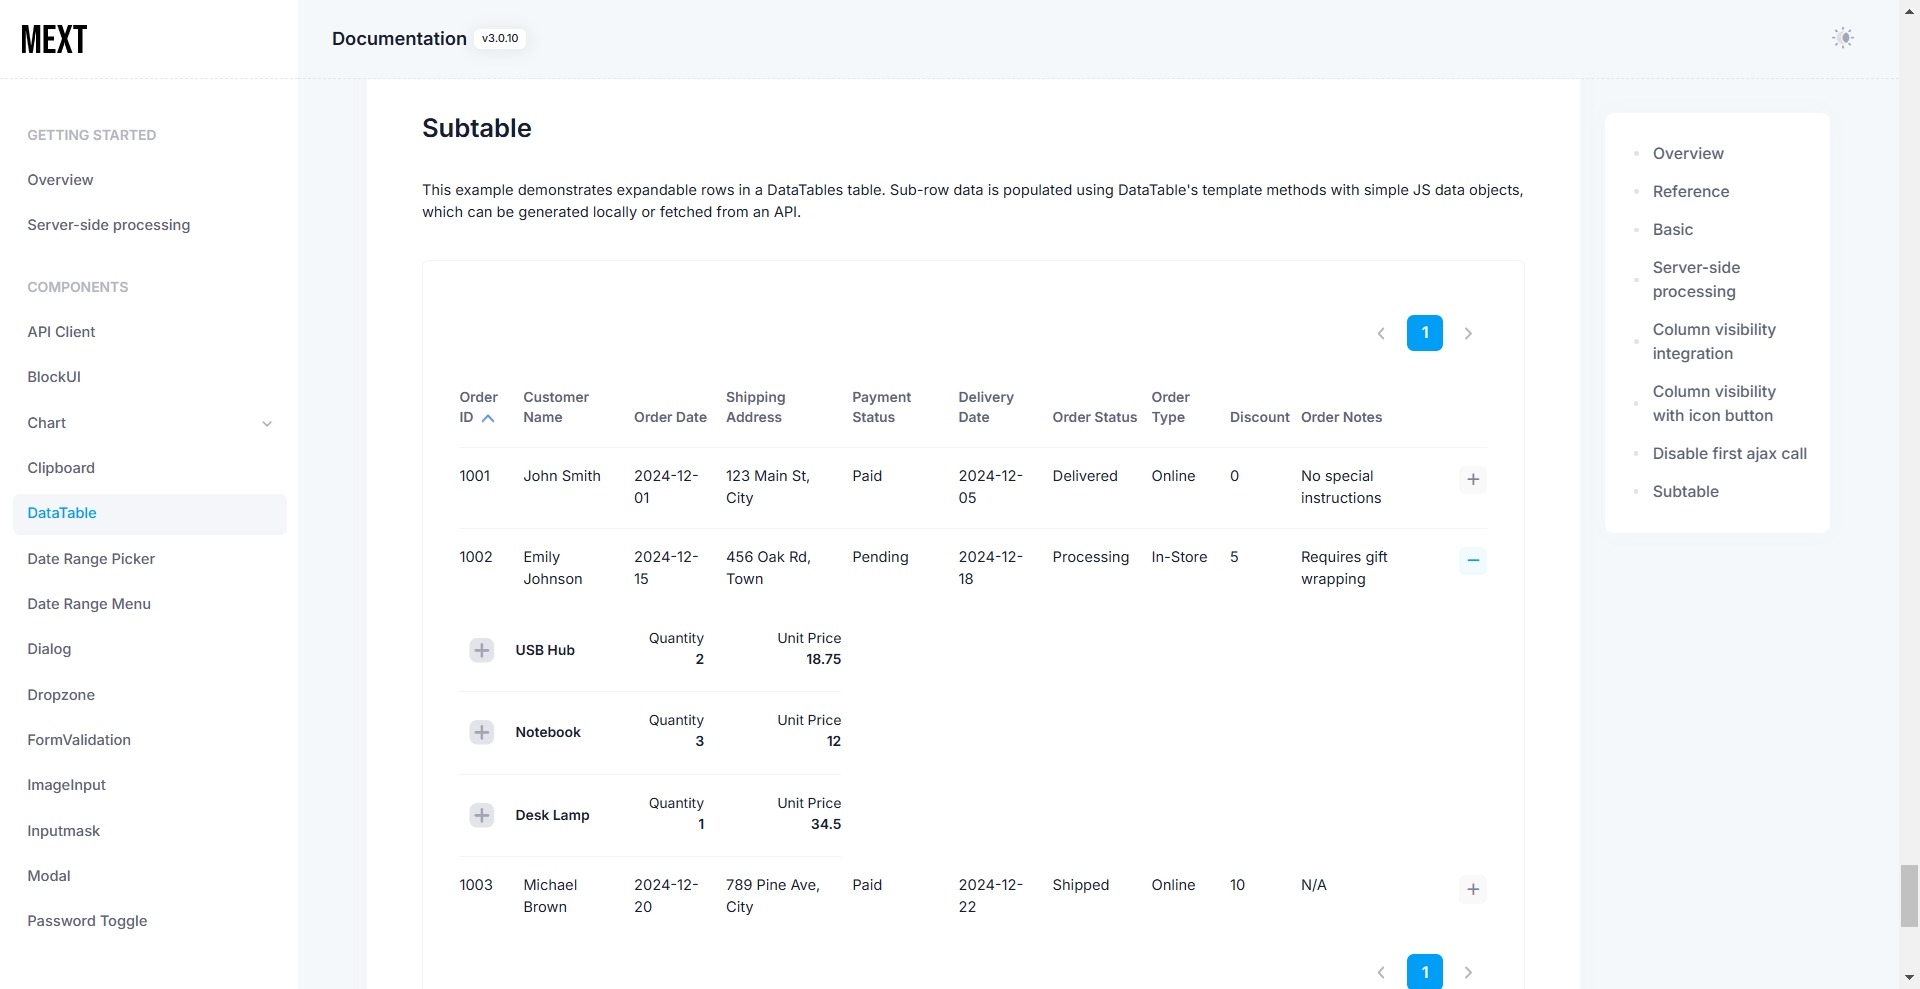
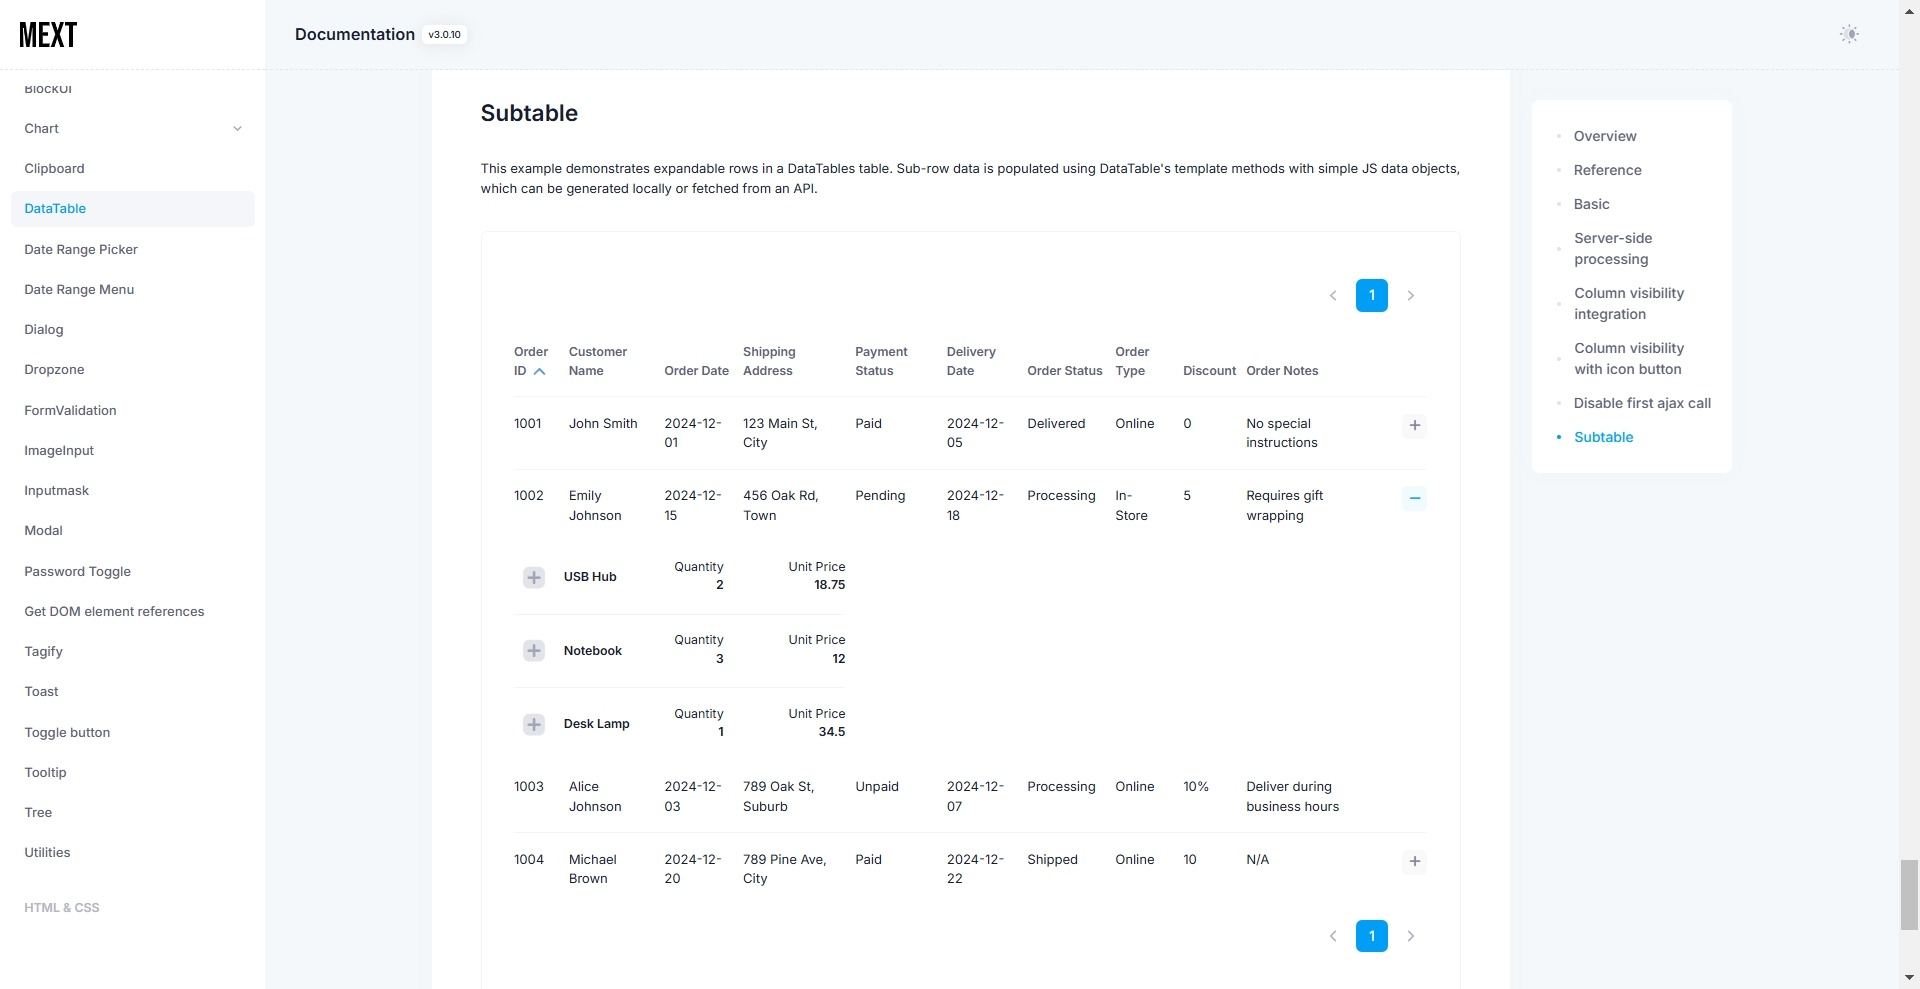
Added an example to the subtable demo where the expand button is not displayed for rows without subtable data.

diff --git a/docs/build/subtable.js b/docs/build/subtable.js
@@ -16,7 +16,7 @@
 /***/ ((__unused_webpack_module, __webpack_exports__, __webpack_require__) => {
 
 "use strict";
-eval("__webpack_require__.r(__webpack_exports__);\n/* harmony import */ var metronic_extension__WEBPACK_IMPORTED_MODULE_0__ = __webpack_require__(/*! metronic-extension */ \"../../dist/build.js\");\n/* harmony import */ var metronic_extension__WEBPACK_IMPORTED_MODULE_0___default = /*#__PURE__*/__webpack_require__.n(metronic_extension__WEBPACK_IMPORTED_MODULE_0__);\n\r\n\r\n// Get DOM element references.\r\nconst ref = metronic_extension__WEBPACK_IMPORTED_MODULE_0__.components.selectRef();\r\n\r\n// Initialize the DataTable.\r\nconst initSubtable = () => {\r\n  let targetIndex = 0;\r\n  return new metronic_extension__WEBPACK_IMPORTED_MODULE_0__.components.Datatable(ref.subtable, {\r\n    responsive: true,\r\n    columnDefs: [\r\n      {targets: targetIndex++, responsivePriority: 1, data: 'orderId', name: 'orderId'},\r\n      {targets: targetIndex++, responsivePriority: 2, data: 'customerName', name: 'customerName'},\r\n      {targets: targetIndex++, data: 'orderDate', name: 'orderDate'},\r\n      {targets: targetIndex++, data: 'shippingAddress', name: 'shippingAddress'},\r\n      {targets: targetIndex++, data: 'paymentStatus', name: 'paymentStatus'},\r\n      {targets: targetIndex++, data: 'deliveryDate', name: 'deliveryDate'},\r\n      {targets: targetIndex++, data: 'orderStatus', name: 'orderStatus'},\r\n      {targets: targetIndex++, data: 'orderType', name: 'orderType'},\r\n      {targets: targetIndex++, data: 'discount', name: 'discount'},\r\n      {targets: targetIndex++, data: 'orderNotes', name: 'orderNotes'},\r\n      {targets: targetIndex++, responsivePriority: 3, data: 'expandRow', name: 'expandRow'},\r\n    ],\r\n    pageLength: 3,\r\n    drawCallback: settings => {\r\n      resetSubtable();\r\n    },\r\n  });\r\n}\r\n\r\n// Handles the row expand button click event.\r\nconst handleRowExpand = () => {\r\n  $(subtableContainer).on('click', '[data-on-expand-row]', event => {\r\n    event.stopImmediatePropagation();\r\n    event.preventDefault();\r\n\r\n    const expandButton = event.currentTarget;\r\n    const row = expandButton.closest('tr');\r\n    const rowClasses = ['isOpen', 'border-bottom-0'];\r\n    \r\n    // Toggle subtable visibility.\r\n    if (row.classList.contains('isOpen')) {\r\n      // Close subtable.\r\n      removeSubtableRows(row);\r\n      row.classList.remove(...rowClasses);\r\n      expandButton.classList.remove('active');\r\n    } else {\r\n      // Open subtable.\r\n      const orderId = subtable.getRowData(row).orderId;\r\n      const subtableRows = subtableData.filter(data => data.orderId == orderId);\r\n      const subtableRowCount = subtableRows.length;\r\n\r\n      for (let [index, data] of Object.entries(subtableRows))\r\n        populateSubtableRow(data, row, index, subtableRowCount);\r\n\r\n      row.classList.add(...rowClasses);\r\n      expandButton.classList.add('active');\r\n    }\r\n  })\r\n}\r\n\r\n// Removes subtable rows associated with the given parent row, excluding rows with the 'child' class.\r\nconst removeSubtableRows = parentRow => {\r\n  let nextRow = parentRow.nextSibling;\r\n\r\n  while (nextRow) {\r\n    // Store the next sibling before potentially removing nextRow.\r\n    const nextSibling = nextRow.nextSibling; \r\n\r\n    if (nextRow.getAttribute('data-is-subtable-row') === 'true')\r\n      // Remove the subtable row.\r\n      nextRow.parentNode.removeChild(nextRow);\r\n      else if (!nextRow.classList.contains('child'))\r\n      // Stop if the next row is not a subtable row and doesn't have the 'child' class.\r\n      break;\r\n\r\n    // Move to the next sibling.\r\n    nextRow = nextSibling; // Update nextRow to the stored next sibling.\r\n  }\r\n}\r\n\r\n// Populates a subtable row with data and inserts it into the table.\r\nconst populateSubtableRow = (data, parentRow, index, subtableRowCount) => {\r\n  // Clone the template row.\r\n  const subRowFragment = subtableTemplate.content.cloneNode(true);\r\n  const subRow = subRowFragment.children[0]; \r\n\r\n  // Set an attribute to identify the subtable row.\r\n  subRow.setAttribute('data-is-subtable-row', 'true');\r\n  \r\n  // Populate data fields in the subtable row.\r\n  const nameElement = subRow.querySelector('[data-subtable-field=\"name\"]');\r\n  const quantityElement = subRow.querySelector('[data-subtable-field=\"quantity\"]');\r\n  const unitPriceElement = subRow.querySelector('[data-subtable-field=\"unit_price\"]');\r\n\r\n  nameElement.innerText = data.name;\r\n  quantityElement.innerText = data.quantity;\r\n  unitPriceElement.innerText = data.unitPrice;\r\n\r\n  // Apply rounded corners based on row position.\r\n  applyRoundedCorners(subRow, index, subtableRowCount);\r\n\r\n  // Insert the new subtable row into the table.\r\n  const tbody = subtableContainer.querySelector('tbody');\r\n  tbody.insertBefore(subRow, parentRow.nextSibling);\r\n}\r\n\r\n// Applies rounded corners to the first and last rows of the subtable.\r\nconst applyRoundedCorners = (subRow, index, subtableRowCount) => {\r\n  const columns = subRow.querySelectorAll('td');\r\n  const firstColumn = columns[0];\r\n  const lastColumn = columns[columns.length - 1];\r\n\r\n  if (subtableRowCount === 1) {\r\n    // Single row.\r\n    firstColumn.classList.add('rounded', 'rounded-end-0');\r\n    lastColumn.classList.add('rounded', 'rounded-start-0');\r\n    subRow.classList.add('border-bottom-0');\r\n  } else {\r\n    // Multiple rows.\r\n    if (index === 0) { // First row.\r\n      firstColumn.classList.add('rounded-start', 'rounded-top-0');\r\n      lastColumn.classList.add('rounded-end', 'rounded-top-0');\r\n      subRow.classList.add('border-bottom-0');\r\n    }\r\n    if (index === subtableRowCount - 1) { // Last row.\r\n      firstColumn.classList.add('rounded-start', 'rounded-bottom-0');\r\n      lastColumn.classList.add('rounded-end', 'rounded-bottom-0');\r\n    }\r\n  }\r\n}\r\n\r\n// Resets the subtable by removing all subtable rows and resetting row styles.\r\nconst resetSubtable = () => {\r\n  const subtableRows = subtableContainer.querySelectorAll('[data-is-subtable-row=\"true\"]');\r\n  for (const subtableRow of subtableRows)\r\n    subtableRow.parentNode.removeChild(subtableRow);\r\n\r\n  const rows = subtableContainer.querySelectorAll('tbody tr');\r\n  for (const row of rows) {\r\n    row.classList.remove('isOpen');\r\n    const expandButton = row.querySelector('button[data-on-expand-row]');\r\n    if (expandButton) {\r\n      expandButton.classList.remove('active');\r\n    }\r\n  }\r\n}\r\n\r\n// Sample subtable data.\r\nconst subtableData = [\r\n  {\r\n    \"orderId\": 1001,\r\n    \"name\": \"Wireless Mouse\",\r\n    \"quantity\": 1,\r\n    \"unitPrice\": 25.99\r\n  },\r\n  {\r\n    \"orderId\": 1001,\r\n    \"name\": \"Keyboard\",\r\n    \"quantity\": 2,\r\n    \"unitPrice\": 45.00\r\n  },\r\n  {\r\n    \"orderId\": 1002,\r\n    \"name\": \"Desk Lamp\",\r\n    \"quantity\": 1,\r\n    \"unitPrice\": 34.50\r\n  },\r\n  {\r\n    \"orderId\": 1002,\r\n    \"name\": \"Notebook\",\r\n    \"quantity\": 3,\r\n    \"unitPrice\": 12.00\r\n  },\r\n  {\r\n    \"orderId\": 1002,\r\n    \"name\": \"USB Hub\",\r\n    \"quantity\": 2,\r\n    \"unitPrice\": 18.75\r\n  },\r\n  {\r\n    \"orderId\": 1003,\r\n    \"name\": \"Office Chair\",\r\n    \"quantity\": 1,\r\n    \"unitPrice\": 120.00,\r\n  }\r\n];\r\n\r\n\r\n// DOM element references.\r\nconst subtableContainer = ref.subtable.get(0);\r\nconst subtableTemplate = document.getElementById('subtable-template');// Get subtable template.\r\n\r\n// Initialize the component and set up event listeners.\r\nconst subtable = initSubtable();\r\nhandleRowExpand();\n\n//# sourceURL=webpack://demo/./src/datatables/subtable.js?");
+eval("__webpack_require__.r(__webpack_exports__);\n/* harmony import */ var metronic_extension__WEBPACK_IMPORTED_MODULE_0__ = __webpack_require__(/*! metronic-extension */ \"../../dist/build.js\");\n/* harmony import */ var metronic_extension__WEBPACK_IMPORTED_MODULE_0___default = /*#__PURE__*/__webpack_require__.n(metronic_extension__WEBPACK_IMPORTED_MODULE_0__);\n\r\n\r\n// Get DOM element references.\r\nconst ref = metronic_extension__WEBPACK_IMPORTED_MODULE_0__.components.selectRef();\r\n\r\n// Initialize the DataTable.\r\nconst initSubtable = () => {\r\n  let targetIndex = 0;\r\n  return new metronic_extension__WEBPACK_IMPORTED_MODULE_0__.components.Datatable(ref.subtable, {\r\n    responsive: true,\r\n    columnDefs: [\r\n      {targets: targetIndex++, responsivePriority: 1, data: 'orderId', name: 'orderId'},\r\n      {targets: targetIndex++, responsivePriority: 2, data: 'customerName', name: 'customerName'},\r\n      {targets: targetIndex++, data: 'orderDate', name: 'orderDate'},\r\n      {targets: targetIndex++, data: 'shippingAddress', name: 'shippingAddress'},\r\n      {targets: targetIndex++, data: 'paymentStatus', name: 'paymentStatus'},\r\n      {targets: targetIndex++, data: 'deliveryDate', name: 'deliveryDate'},\r\n      {targets: targetIndex++, data: 'orderStatus', name: 'orderStatus'},\r\n      {targets: targetIndex++, data: 'orderType', name: 'orderType'},\r\n      {targets: targetIndex++, data: 'discount', name: 'discount'},\r\n      {targets: targetIndex++, data: 'orderNotes', name: 'orderNotes'},\r\n      {\r\n        targets: targetIndex++,\r\n        responsivePriority: 3,\r\n        data: 'showSubtable',\r\n        name: 'showSubtable', \r\n        render: (data, type, row) => {\r\n          // Check if subtable data exists for this row.\r\n          const hasSubtableData = subtableData.some(item => item.orderId.toString() === row.orderId);\r\n          return hasSubtableData ? data : '';\r\n        },\r\n      },\r\n    ],\r\n    pageLength: 4,\r\n    drawCallback: settings => {\r\n      resetSubtable();\r\n    },\r\n  });\r\n}\r\n\r\n// Handles the row expand button click event.\r\nconst handleRowExpand = () => {\r\n  $(subtableContainer).on('click', '[data-on-expand-row]', event => {\r\n    event.stopImmediatePropagation();\r\n    event.preventDefault();\r\n\r\n    const expandButton = event.currentTarget;\r\n    const row = expandButton.closest('tr');\r\n    const rowClasses = ['isOpen', 'border-bottom-0'];\r\n    \r\n    // Toggle subtable visibility.\r\n    if (row.classList.contains('isOpen')) {\r\n      // Close subtable.\r\n      removeSubtableRows(row);\r\n      row.classList.remove(...rowClasses);\r\n      expandButton.classList.remove('active');\r\n    } else {\r\n      // Open subtable.\r\n      const orderId = subtable.getRowData(row).orderId;\r\n      const subtableRows = subtableData.filter(data => data.orderId == orderId);\r\n      const subtableRowCount = subtableRows.length;\r\n\r\n      for (let [index, data] of Object.entries(subtableRows))\r\n        populateSubtableRow(data, row, parseInt(index, 10), subtableRowCount);\r\n\r\n      row.classList.add(...rowClasses);\r\n      expandButton.classList.add('active');\r\n    }\r\n  })\r\n}\r\n\r\n// Removes subtable rows associated with the given parent row, excluding rows with the 'child' class.\r\nconst removeSubtableRows = parentRow => {\r\n  let nextRow = parentRow.nextSibling;\r\n\r\n  while (nextRow) {\r\n    // Store the next sibling before potentially removing nextRow.\r\n    const nextSibling = nextRow.nextSibling; \r\n\r\n    if (nextRow.getAttribute('data-is-subtable-row') === 'true')\r\n      // Remove the subtable row.\r\n      nextRow.parentNode.removeChild(nextRow);\r\n      else if (!nextRow.classList.contains('child'))\r\n      // Stop if the next row is not a subtable row and doesn't have the 'child' class.\r\n      break;\r\n\r\n    // Move to the next sibling.\r\n    nextRow = nextSibling; // Update nextRow to the stored next sibling.\r\n  }\r\n}\r\n\r\n// Populates a subtable row with data and inserts it into the table.\r\nconst populateSubtableRow = (data, parentRow, index, subtableRowCount) => {\r\n  // Clone the template row.\r\n  const subRowFragment = subtableTemplate.content.cloneNode(true);\r\n  const subRow = subRowFragment.children[0]; \r\n\r\n  // Set an attribute to identify the subtable row.\r\n  subRow.setAttribute('data-is-subtable-row', 'true');\r\n  \r\n  // Populate data fields in the subtable row.\r\n  const nameElement = subRow.querySelector('[data-subtable-field=\"name\"]');\r\n  const quantityElement = subRow.querySelector('[data-subtable-field=\"quantity\"]');\r\n  const unitPriceElement = subRow.querySelector('[data-subtable-field=\"unit_price\"]');\r\n\r\n  nameElement.innerText = data.name;\r\n  quantityElement.innerText = data.quantity;\r\n  unitPriceElement.innerText = data.unitPrice;\r\n\r\n  // Apply rounded corners based on row position.\r\n  applyRoundedCorners(subRow, index, subtableRowCount);\r\n\r\n  // Insert the new subtable row into the table.\r\n  const tbody = subtableContainer.querySelector('tbody');\r\n  tbody.insertBefore(subRow, parentRow.nextSibling);\r\n}\r\n\r\n// Applies rounded corners to the first and last rows of the subtable.\r\nconst applyRoundedCorners = (subRow, index, subtableRowCount) => {\r\n  const columns = subRow.querySelectorAll('td');\r\n  const firstColumn = columns[0];\r\n  const lastColumn = columns[columns.length - 1];\r\n\r\n  if (subtableRowCount === 1) {\r\n    // Single row.\r\n    firstColumn.classList.add('rounded', 'rounded-end-0');\r\n    lastColumn.classList.add('rounded', 'rounded-start-0');\r\n    subRow.classList.add('border-bottom-0');\r\n  } else {\r\n    // Multiple rows.\r\n    if (index === 0) { // First row.\r\n      firstColumn.classList.add('rounded-start', 'rounded-top-0');\r\n      lastColumn.classList.add('rounded-end', 'rounded-top-0');\r\n      subRow.classList.add('border-bottom-0');\r\n    }\r\n    if (index === subtableRowCount - 1) { // Last row.\r\n      firstColumn.classList.add('rounded-start', 'rounded-bottom-0');\r\n      lastColumn.classList.add('rounded-end', 'rounded-bottom-0');\r\n    }\r\n  }\r\n}\r\n\r\n// Resets the subtable by removing all subtable rows and resetting row styles.\r\nconst resetSubtable = () => {\r\n  const subtableRows = subtableContainer.querySelectorAll('[data-is-subtable-row=\"true\"]');\r\n  for (const subtableRow of subtableRows)\r\n    subtableRow.parentNode.removeChild(subtableRow);\r\n\r\n  const rows = subtableContainer.querySelectorAll('tbody tr');\r\n  for (const row of rows) {\r\n    row.classList.remove('isOpen');\r\n    const expandButton = row.querySelector('button[data-on-expand-row]');\r\n    if (expandButton) {\r\n      expandButton.classList.remove('active');\r\n    }\r\n  }\r\n}\r\n\r\n// Sample subtable data.\r\nconst subtableData = [\r\n  {\r\n    \"orderId\": 1001,\r\n    \"name\": \"Wireless Mouse\",\r\n    \"quantity\": 1,\r\n    \"unitPrice\": 25.99\r\n  },\r\n  {\r\n    \"orderId\": 1001,\r\n    \"name\": \"Keyboard\",\r\n    \"quantity\": 2,\r\n    \"unitPrice\": 45.00\r\n  },\r\n  {\r\n    \"orderId\": 1002,\r\n    \"name\": \"Desk Lamp\",\r\n    \"quantity\": 1,\r\n    \"unitPrice\": 34.50\r\n  },\r\n  {\r\n    \"orderId\": 1002,\r\n    \"name\": \"Notebook\",\r\n    \"quantity\": 3,\r\n    \"unitPrice\": 12.00\r\n  },\r\n  {\r\n    \"orderId\": 1002,\r\n    \"name\": \"USB Hub\",\r\n    \"quantity\": 2,\r\n    \"unitPrice\": 18.75\r\n  },\r\n  {\r\n    \"orderId\": 1004,\r\n    \"name\": \"Office Chair\",\r\n    \"quantity\": 1,\r\n    \"unitPrice\": 120.00,\r\n  }\r\n];\r\n\r\n\r\n// DOM element references.\r\nconst subtableContainer = ref.subtable.get(0);\r\nconst subtableTemplate = document.getElementById('subtable-template');// Get subtable template.\r\n\r\n// Initialize the component and set up event listeners.\r\nconst subtable = initSubtable();\r\nhandleRowExpand();\n\n//# sourceURL=webpack://demo/./src/datatables/subtable.js?");
 
 /***/ }),
 

diff --git a/docs/datatable.html b/docs/datatable.html
@@ -3190,8 +3190,27 @@ module.exports = class extends Model {
               </button>
             </td>
           </tr>
+          <!-- This row has no subtable data -->
           <tr>
             <td>1003</td>
+            <td>Alice Johnson</td>
+            <td>2024-12-03</td>
+            <td>789 Oak St, Suburb</td>
+            <td>Unpaid</td>
+            <td>2024-12-07</td>
+            <td>Processing</td>
+            <td>Online</td>
+            <td>10%</td>
+            <td>Deliver during business hours</td>
+            <td class="text-end">
+              <button data-on-expand-row type="button" class="btn btn-sm btn-icon btn-light btn-active-light-primary toggle h-25px w-25px">
+                <i class="ki-duotone ki-plus fs-3 m-0 toggle-off"></i>
+                <i class="ki-duotone ki-minus fs-3 m-0 toggle-on"></i>
+              </button>
+            </td>
+          </tr>
+          <tr>
+            <td>1004</td>
             <td>Michael Brown</td>
             <td>2024-12-20</td>
             <td>789 Pine Ave, City</td>
@@ -3316,8 +3335,27 @@ module.exports = class extends Model {
         &lt;/button&gt;
       &lt;/td&gt;
     &lt;/tr&gt;
+    &lt;!-- This row has no subtable data --&gt;
     &lt;tr&gt;
       &lt;td&gt;1003&lt;/td&gt;
+      &lt;td&gt;Alice Johnson&lt;/td&gt;
+      &lt;td&gt;2024-12-03&lt;/td&gt;
+      &lt;td&gt;789 Oak St, Suburb&lt;/td&gt;
+      &lt;td&gt;Unpaid&lt;/td&gt;
+      &lt;td&gt;2024-12-07&lt;/td&gt;
+      &lt;td&gt;Processing&lt;/td&gt;
+      &lt;td&gt;Online&lt;/td&gt;
+      &lt;td&gt;10%&lt;/td&gt;
+      &lt;td&gt;Deliver during business hours&lt;/td&gt;
+      &lt;td class=&quot;text-end&quot;&gt;
+        &lt;button data-on-expand-row type=&quot;button&quot; class=&quot;btn btn-sm btn-icon btn-light btn-active-light-primary toggle h-25px w-25px&quot;&gt;
+          &lt;i class=&quot;ki-duotone ki-plus fs-3 m-0 toggle-off&quot;&gt;&lt;/i&gt;
+          &lt;i class=&quot;ki-duotone ki-minus fs-3 m-0 toggle-on&quot;&gt;&lt;/i&gt;
+        &lt;/button&gt;
+      &lt;/td&gt;
+    &lt;/tr&gt;
+    &lt;tr&gt;
+      &lt;td&gt;1004&lt;/td&gt;
       &lt;td&gt;Michael Brown&lt;/td&gt;
       &lt;td&gt;2024-12-20&lt;/td&gt;
       &lt;td&gt;789 Pine Ave, City&lt;/td&gt;
@@ -3366,9 +3404,19 @@ const initSubtable = () =&gt; {
       {targets: targetIndex++, data: 'orderType', name: 'orderType'},
       {targets: targetIndex++, data: 'discount', name: 'discount'},
       {targets: targetIndex++, data: 'orderNotes', name: 'orderNotes'},
-      {targets: targetIndex++, responsivePriority: 3, data: 'expandRow', name: 'expandRow'},
+      {
+        targets: targetIndex++,
+        responsivePriority: 3,
+        data: 'showSubtable',
+        name: 'showSubtable', 
+        render: (data, type, row) =&gt; {
+          // Check if subtable data exists for this row.
+          const hasSubtableData = subtableData.some(item =&gt; item.orderId.toString() === row.orderId);
+          return hasSubtableData ? data : '';
+        },
+      },
     ],
-    pageLength: 3,
+    pageLength: 4,
     drawCallback: settings =&gt; {
       resetSubtable();
     },
@@ -3398,7 +3446,7 @@ const handleRowExpand = () =&gt; {
       const subtableRowCount = subtableRows.length;
 
       for (let [index, data] of Object.entries(subtableRows))
-        populateSubtableRow(data, row, index, subtableRowCount);
+        populateSubtableRow(data, row, parseInt(index, 10), subtableRowCount);
 
       row.classList.add(...rowClasses);
       expandButton.classList.add('active');
@@ -3526,7 +3574,7 @@ const subtableData = [
     &quot;unitPrice&quot;: 18.75
   },
   {
-    &quot;orderId&quot;: 1003,
+    &quot;orderId&quot;: 1004,
     &quot;name&quot;: &quot;Office Chair&quot;,
     &quot;quantity&quot;: 1,
     &quot;unitPrice&quot;: 120.00,

diff --git a/demo/client/src/datatables/subtable.js b/demo/client/src/datatables/subtable.js
@@ -19,9 +19,19 @@ const initSubtable = () => {
       {targets: targetIndex++, data: 'orderType', name: 'orderType'},
       {targets: targetIndex++, data: 'discount', name: 'discount'},
       {targets: targetIndex++, data: 'orderNotes', name: 'orderNotes'},
-      {targets: targetIndex++, responsivePriority: 3, data: 'expandRow', name: 'expandRow'},
+      {
+        targets: targetIndex++,
+        responsivePriority: 3,
+        data: 'showSubtable',
+        name: 'showSubtable', 
+        render: (data, type, row) => {
+          // Check if subtable data exists for this row.
+          const hasSubtableData = subtableData.some(item => item.orderId.toString() === row.orderId);
+          return hasSubtableData ? data : '';
+        },
+      },
     ],
-    pageLength: 3,
+    pageLength: 4,
     drawCallback: settings => {
       resetSubtable();
     },
@@ -51,7 +61,7 @@ const handleRowExpand = () => {
       const subtableRowCount = subtableRows.length;
 
       for (let [index, data] of Object.entries(subtableRows))
-        populateSubtableRow(data, row, index, subtableRowCount);
+        populateSubtableRow(data, row, parseInt(index, 10), subtableRowCount);
 
       row.classList.add(...rowClasses);
       expandButton.classList.add('active');
@@ -179,7 +189,7 @@ const subtableData = [
     "unitPrice": 18.75
   },
   {
-    "orderId": 1003,
+    "orderId": 1004,
     "name": "Office Chair",
     "quantity": 1,
     "unitPrice": 120.00,

diff --git a/CHANGELOG.md b/CHANGELOG.md
@@ -4,6 +4,7 @@ All notable changes to this project will be documented in this file.
 ## [3.0.11] - Unreleased
 ### Changed
 - Added responsive support for subtables. You can check the updated subtable [here](https://takuya-motoshima.github.io/metronic-extension/datatable.html#subtable).
+- Added an example to the subtable demo where the expand button is not displayed for rows without subtable data.
 
 ## [3.0.10] - 2024/12/27
 ### Added
